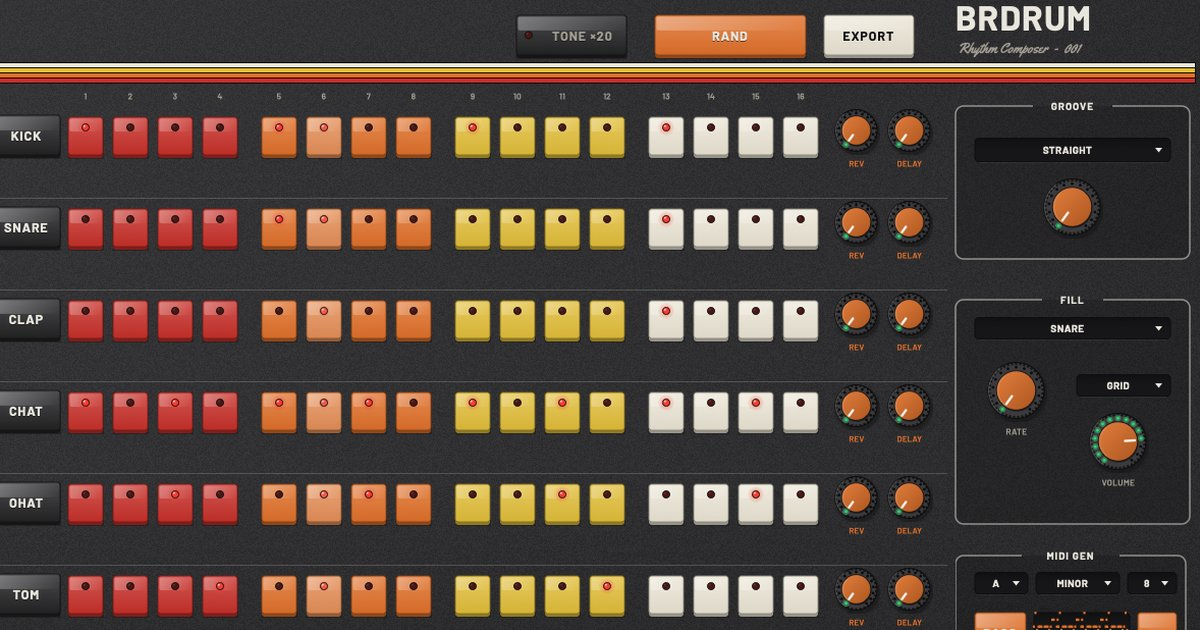
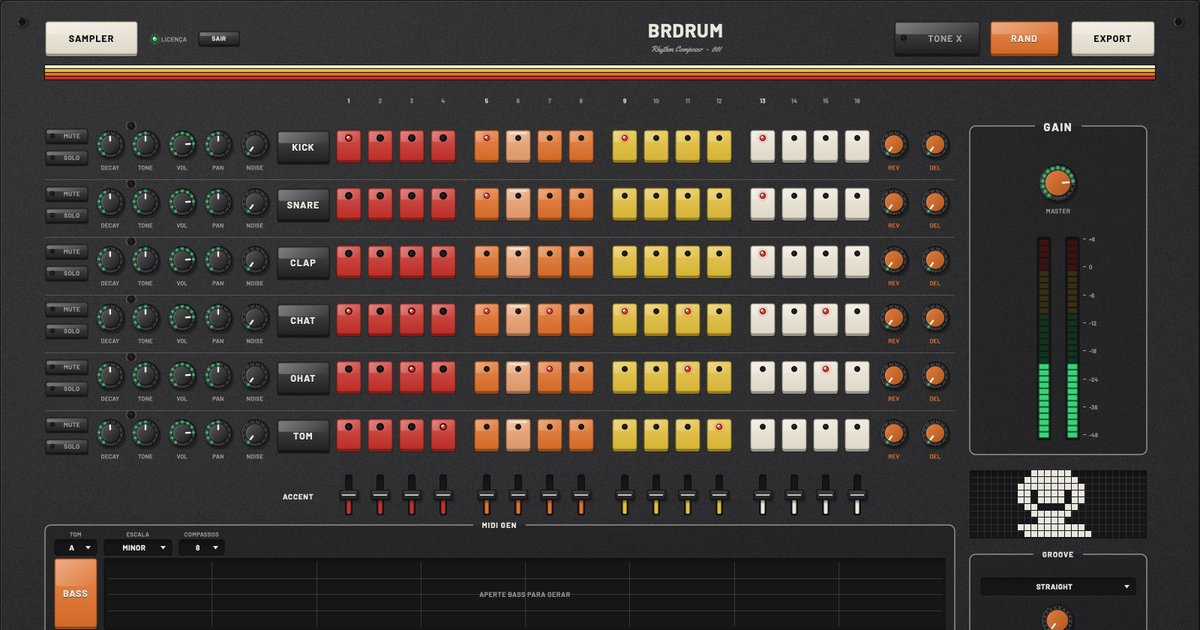
copy: O que tem dentro com OTT, viradas de DJ, TONE X por instrumento e o Pal; PRODUCT.md e imagem de compartilhamento do plugin atual
Claude-Session: https://claude.ai/code/session_01VVsj95CTKv2P2DgxLS27L6

diff --git a/index.html b/index.html
@@ -10,16 +10,16 @@
 <meta property="og:type" content="website">
 <meta property="og:title" content="BRDRUM — Rhythm Composer - 001">
 <meta property="og:description" content="Sua bateria e baixo em 1 clique. Plugin para Mac e Windows; a demo da página é o motor real do plugin rodando no navegador.">
-<meta property="og:image" content="https://brdrum.com/img/og-brdrum.jpg">
+<meta property="og:image" content="https://brdrum.com/img/og-brdrum.jpg?v=3">
 <meta property="og:image:width" content="1200">
 <meta property="og:image:height" content="630">
-<meta property="og:image:alt" content="O painel do BRDRUM em aço grafite: a plaqueta BRDRUM Rhythm Composer - 001, a faixa listrada e a grade de 16 passos nas cores da 808 (vermelho, laranja, amarelo e creme) para kick, snare, clap, chimbais e tom, com os painéis de groove e fill ao lado.">
+<meta property="og:image:alt" content="O painel do BRDRUM em aço grafite: a marca BRDRUM Rhythm Composer - 001, a faixa listrada, as teclas TONE X e RAND, a grade de 16 passos em vermelho, laranja, amarelo e creme, o medidor de GAIN e a telinha com o Pal.">
 <meta property="og:locale" content="pt_BR">
 <meta name="twitter:card" content="summary_large_image">
 <meta name="twitter:title" content="BRDRUM — Rhythm Composer - 001">
 <meta name="twitter:description" content="Sua bateria e baixo em 1 clique. Toque antes de comprar.">
-<meta name="twitter:image" content="https://brdrum.com/img/og-brdrum.jpg">
-<meta name="twitter:image:alt" content="O painel do BRDRUM: plaqueta BRDRUM e a grade de 16 passos nas cores da 808.">
+<meta name="twitter:image" content="https://brdrum.com/img/og-brdrum.jpg?v=3">
+<meta name="twitter:image:alt" content="O painel do BRDRUM: a grade de 16 passos colorida e a telinha com o Pal.">
 
 <link rel="preconnect" href="https://fonts.googleapis.com">
 <link rel="preconnect" href="https://fonts.gstatic.com" crossorigin>
@@ -121,8 +121,10 @@ RISK: aço demais sem cor; a cor mora nas teclas e nos LEDs, nunca no fundo. -->
     <tr><th>Bateria</th><td>6 instrumentos · 16 passos · batida pronta em 1 clique</td></tr>
     <tr><th>Sons</th><td>232 de fábrica + os seus</td></tr>
     <tr><th>Baixo e melodia</th><td>sorteia um dos MIDIs da sua pasta, no tom da batida · arrasta pro DAW</td></tr>
-    <tr><th>Master FX</th><td>saturação, compressor multibanda e echo</td></tr>
-    <tr><th>Export</th><td>um wav por instrumento (kick, snare, clap, hat, tom) + um wav só dos efeitos (reverb e delay) + o mix completo</td></tr>
+    <tr><th>Viradas</th><td>11 velocidades, de 1/16 a 2 compassos, com contratempo</td></tr>
+    <tr><th>Afinação</th><td>TONE X: até 20x mais agudo ou grave, por instrumento</td></tr>
+    <tr><th>Master FX</th><td>saturação com 8 tipos, compressor de três faixas com preset OTT e echo</td></tr>
+    <tr><th>Export</th><td>um wav por instrumento (bumbo, caixa, palma, chimbais, tom) + um wav só dos efeitos (reverb e delay) + o mix completo</td></tr>
     <tr><th>Licença</th><td>por conta · 1, 3 ou 5 computadores</td></tr>
   </table>
 </section>
@@ -228,22 +230,46 @@ RISK: aço demais sem cor; a cor mora nas teclas e nos LEDs, nunca no fundo. -->
       <svg class="feat-ico" viewBox="0 0 48 48" aria-hidden="true"><path d="M6 12a3 3 0 013-3h10l4 4h16a3 3 0 013 3v20a3 3 0 01-3 3H9a3 3 0 01-3-3z" fill="none" stroke="currentColor" stroke-width="3" stroke-linejoin="round"/><path d="M6 20h36" stroke="currentColor" stroke-width="3"/></svg>
       <p>Vem com <b>232 sons de bateria</b> prontos. Quer usar os seus? Joga os arquivos numa pasta
          e eles entram no sorteio junto com os que já vêm. Milhares de combinações.</p>
-      <span class="legend">232 sons + os seus</span>
+      <span class="legend">232 sons</span>
     </fieldset>
     <fieldset class="panel feat"><legend>Baixo e melodia</legend>
       <svg class="feat-ico" viewBox="0 0 48 48" aria-hidden="true"><rect x="5" y="9" width="38" height="30" rx="3" fill="none" stroke="currentColor" stroke-width="3"/><path d="M14 9v18M24 9v18M34 9v18" stroke="currentColor" stroke-width="3"/><path d="M11 9v16h6V9M21 9v16h6V9M31 9v16h6V9" fill="currentColor"/></svg>
       <p>Com um clique ele <b>sorteia um dos MIDIs da sua pasta</b> de Bass ou Lead (ou dos pacotes
-         que já vêm dentro), transpõe pro tom que você escolher e entrega o clipe pronto pra arrastar
+         que já vêm dentro), passa pro tom que você escolher e entrega o clipe pronto pra arrastar
          pro seu programa de música.</p>
       <span class="legend">arrasta pro DAW</span>
     </fieldset>
-    <fieldset class="panel feat"><legend>Acabamento</legend>
-      <svg class="feat-ico" viewBox="0 0 48 48" aria-hidden="true"><circle cx="24" cy="24" r="12" fill="none" stroke="currentColor" stroke-width="3"/><path d="M24 24l6-8" stroke="currentColor" stroke-width="3" stroke-linecap="round"/><path d="M24 5v4M24 39v4M5 24h4M39 24h4M10.6 10.6l2.8 2.8M34.6 34.6l2.8 2.8M10.6 37.4l2.8-2.8M34.6 13.4l2.8-2.8" stroke="currentColor" stroke-width="3" stroke-linecap="round"/></svg>
-      <p><b>Viradas automáticas</b>, saturação, compressor multibanda e echo no master, reverb e delay
-         em cada instrumento. E o <b>EXPORT grava cada instrumento da bateria num wav separado</b>
-         (kick, snare, clap, hat e tom), <b>mais um wav só com os efeitos</b> (reverb e delay) e o mix
-         completo, pra você mixar do seu jeito no DAW.</p>
-      <span class="legend">wav por instrumento + FX + mix</span>
+    <fieldset class="panel feat"><legend>Efeitos e export</legend>
+      <svg class="feat-ico" viewBox="0 0 48 48" aria-hidden="true"><path d="M8 34V14M18 34V8M28 34V18M38 34V12" stroke="currentColor" stroke-width="3" stroke-linecap="round"/><path d="M4 40h40" stroke="currentColor" stroke-width="3" stroke-linecap="round"/></svg>
+      <p><b>Cada instrumento tem reverb e delay próprios.</b> E o <b>EXPORT grava cada instrumento num
+         wav separado</b> (bumbo, caixa, palma, chimbais e tom), <b>mais um wav só com os efeitos</b> e
+         o mix completo, pra você mixar do seu jeito no programa de música.</p>
+      <span class="legend">wav separado</span>
+    </fieldset>
+    <fieldset class="panel feat"><legend>Acabamento com OTT</legend>
+      <svg class="feat-ico" viewBox="0 0 48 48" aria-hidden="true"><circle cx="24" cy="24" r="12" fill="none" stroke="currentColor" stroke-width="3"/><path d="M24 24l6-8" stroke="currentColor" stroke-width="3" stroke-linecap="round"/><path d="M4 24c4-8 8-8 10 0M34 24c2 8 6 8 10 0" fill="none" stroke="currentColor" stroke-width="3" stroke-linecap="round"/></svg>
+      <p><b>Saturação com 8 tipos de som, compressor de três faixas e echo</b> no final. Escolhe o
+         <b>preset OTT</b> e a batida fica mais cheia e colada. Quer ajustar? O EDIT abre cada detalhe.</p>
+      <span class="legend">preset OTT pronto</span>
+    </fieldset>
+    <fieldset class="panel feat"><legend>Viradas de DJ</legend>
+      <svg class="feat-ico" viewBox="0 0 48 48" aria-hidden="true"><path d="M6 30h6M16 30h6M26 30h6M36 30h6" stroke="currentColor" stroke-width="5" stroke-linecap="round"/><path d="M10 18h4M22 18h4M34 18h4" stroke="currentColor" stroke-width="3" stroke-linecap="round"/></svg>
+      <p><b>A virada entra no tempo da música</b>, com as marcações dos mixers de DJ: de 1/16 até 2
+         compassos, e também no contratempo. Você escolhe o instrumento, a velocidade e o volume.</p>
+      <span class="legend">11 velocidades</span>
+    </fieldset>
+    <fieldset class="panel feat"><legend>TONE X por instrumento</legend>
+      <svg class="feat-ico" viewBox="0 0 48 48" aria-hidden="true"><path d="M8 12l10 12-10 12M40 12L30 24l10 12" fill="none" stroke="currentColor" stroke-width="3" stroke-linecap="round" stroke-linejoin="round"/><circle cx="24" cy="24" r="4" fill="currentColor"/></svg>
+      <p>Liga o <b>TONE X</b> e o TONE de cada instrumento vai <b>até 20 vezes mais agudo ou mais
+         grave</b>. A luzinha de cada linha escolhe quais instrumentos entram.</p>
+      <span class="legend">até 20x</span>
+    </fieldset>
+    <fieldset class="panel feat"><legend>Um parceiro na tela</legend>
+      <svg class="feat-ico" viewBox="0 0 48 48" aria-hidden="true"><path d="M17 6h14v4h4v14h-4v4H17v-4h-4V10h4zM12 32h24v4h6v8H6v-8h6z" fill="currentColor"/><path d="M19 14h3v3h-3zM26 14h3v3h-3zM20 20h8v2h-8z" fill="var(--recess)"/></svg>
+      <p><b>O Pal mora na telinha do BRDRUM</b> e reage ao que você faz: segue o mouse, sorri quando
+         você clica, dança quando a música toca, fica triste se você corta o volume e cochila se você
+         passa um minuto sem mexer.</p>
+      <span class="legend">dança no play</span>
     </fieldset>
   </div>
 </section>

diff --git a/PRODUCT.md b/PRODUCT.md
@@ -8,7 +8,7 @@ web
 
 ## Stack
 
-Site estático de duas páginas (`index.html` e `conta.html`) com uma folha de estilo compartilhada (`dd.css`), mais `dd-main.js`, `dd-processor.js` (AudioWorklet), `url-shim.js` e o motor `engine.mjs` + `engine.wasm`. `dd-api.js` é o cliente mínimo (sem SDK) do backend de licenças; `dd-precos.js` lê os preços da tabela `plans`; `conta.js` é a página da conta. Sem framework, sem build step. Backend: projeto Supabase `bwzngjvjxrqbalvoadpu` (auth por e-mail e senha, tabelas de licença e Edge Functions) e checkout pelo Mercado Pago; contrato em `~/Sistema AI/drum-dealer-backend/API.md`. Publicado por GitHub Pages no repo público `dlimcontato-lab/drum-dealer-releases`; a fonte vive em `~/Sistema AI/drum-dealer-site`.
+Site estático de duas páginas (`index.html` e `conta.html`) com uma folha de estilo compartilhada (`dd.css`), mais a demo (`dd-main.js`, `dd-painel.js` e `dd-edit.js` montam o painel do plugin a partir de `painel/layout.json` e `painel/params.json`, gerados do código do plugin; `dd-audio.js` e `dd-processor.js` rodam o som num AudioWorklet; `dd-pal.js` desenha o Pal a partir de `painel/pal.json`), `url-shim.js` e o motor `engine.mjs` + `engine.wasm`, compilado do plugin (`MaschinDealer/web/build-wasm.sh`). `dd-api.js` é o cliente mínimo (sem SDK) do backend de licenças; `dd-precos.js` lê os preços da tabela `plans`; `conta.js` é a página da conta. Sem framework, sem build step. Backend: projeto Supabase `bwzngjvjxrqbalvoadpu` (auth por e-mail e senha, tabelas de licença e Edge Functions) e checkout pelo Mercado Pago; contrato em `~/Sistema AI/drum-dealer-backend/API.md`. Publicado por GitHub Pages no repo público `dlimcontato-lab/drum-dealer-releases`; a fonte vive em `~/Sistema AI/drum-dealer-site`.
 
 ## Users
 
@@ -37,7 +37,10 @@ A demo da própria página é o motor C++ do plugin compilado para WebAssembly, 
 - Sequencer de 16 steps, 6 instrumentos (kick, snare, clap, hat fechado, hat aberto, tom), accent por step, groove straight/swing com amount, mute/solo e ganho por canal, botão RAND que sorteia padrão e samples.
 - Sampler com 232 samples de fábrica versionados; troca de sample por instrumento.
 - MIDI GEN de bass e lead seguindo o kick, na escala escolhida, com clipe arrastável para o DAW.
-- Fills automáticos por instrumento (rate, fase grid/contra, volume), reverb e delay por canal, export de stems separados + master em wav.
+- Viradas por instrumento com RATE de 12 degraus (OFF, 1/16 a 2 compassos, com contratempo em 1/16, 1/8, 1/4 e 1/2) e volume; reverb e delay por canal; export de stems separados (kick, snare, clap, hat, tom) + FX + mix em wav.
+- MASTER FX: SATURATION com 8 formas (WAVE SHAPE), MULTIBAND de 3 bandas com preset OTT (no PRESET do EDIT) e ECHO com SYNC. O EDIT abre o painel completo de cada um.
+- TONE X: a tecla do topo amplia o TONE para até 20x; o LED de cada linha escolhe quais instrumentos entram.
+- O Pal: personagem na tela de pixels que segue o mouse, sorri no clique, dança no play, fica triste quando o volume é cortado e cochila depois de 1 minuto sem interação.
 - Formatos VST3 e AU. Pro Tools só aceita AAX: fica de fora por enquanto.
 - Requisitos: macOS 10.15 ou mais novo (Intel e Apple Silicon, binário universal) e Windows 10/11 64 bits.
 - Site sem backend: qualquer captura de dado exige serviço externo.
@@ -55,7 +58,7 @@ A demo da própria página é o motor C++ do plugin compilado para WebAssembly, 
 ## Evidence on Hand
 
 - **A demo WASM tocável é a única prova que existe** — e é forte, porque é o motor real.
-- Os 232 samples de fábrica e o print do painel atual do plugin (`img/og-brdrum.jpg`, 1200×630, recortado de `MaschinDealer/validation/ui-licenciado.png`; é a imagem de compartilhamento) estão no repo. O print antigo `drum-dealer-ui.png` saiu em 2026-09-11.
+- Os 232 samples de fábrica e o print do painel atual do plugin (`img/og-brdrum.jpg`, 1200×630, recortado em 2026-09-17 da captura do plugin licenciado com TONE X e o Pal, sem e-mail da licença na imagem; é a imagem de compartilhamento) estão no repo. O print antigo `drum-dealer-ui.png` saiu em 2026-09-11.
 - **Não existe** e não pode ser inventado: depoimento, nome de usuário, contagem de downloads, avaliação, logo de artista, menção de imprensa, selo de compatibilidade oficial, prêmio ou número de qualquer natureza. Nenhuma faixa de referência pronta feita com o plugin está disponível hoje.
 
 ## Product Principles
